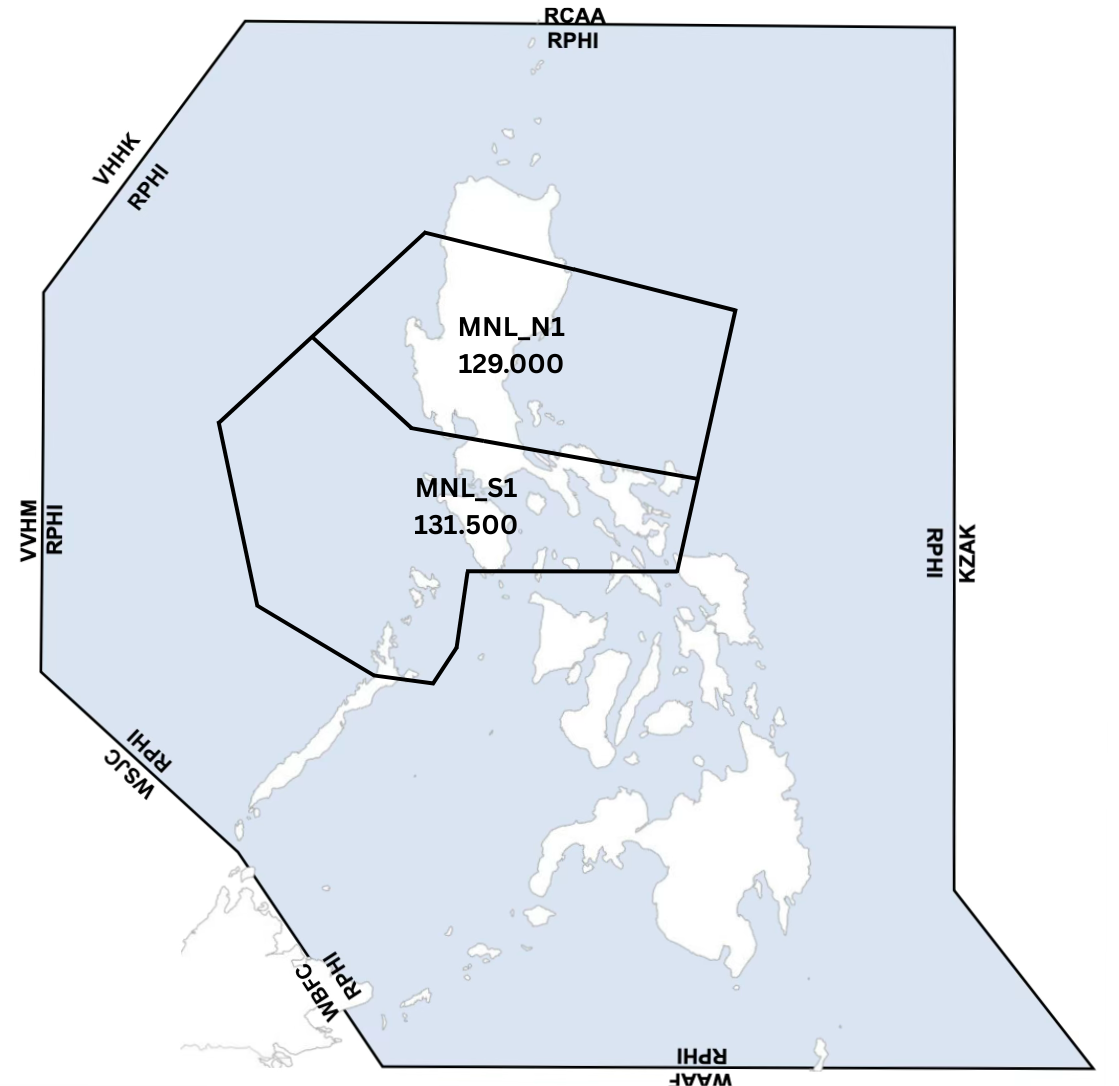
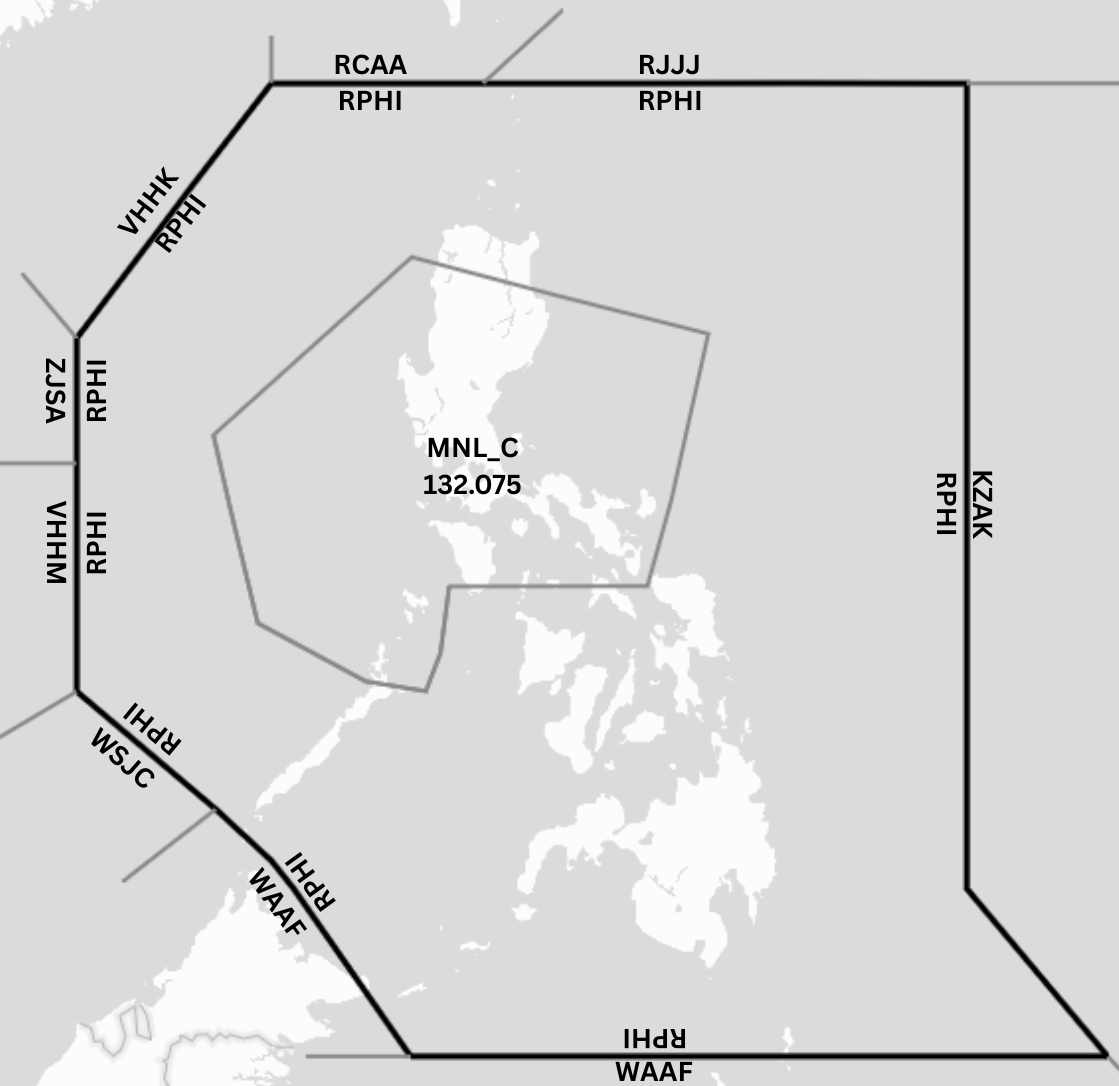
Sector Update

diff --git a/tools/build_mnl_sectors.py b/tools/build_mnl_sectors.py
@@ -1,0 +1,103 @@
+#!/usr/bin/env python3
+"""
+Build the Manila ACC sector polygons for the briefings map
+(docs/briefings/index.md, `var sectors = [...]`) from the boundary lines in
+tools/mnl_sector_lines.geojson (FIR border + sector boundary lines).
+
+The lines are noded and polygonized into atomic cells; each published sector
+is the union of its atomic cells.  Prints the JS lines to paste / writes them
+into index.md between the `var sectors = [` ... `];` markers.
+
+Run: venv/bin/python tools/build_mnl_sectors.py
+"""
+import json, os, re
+from shapely.geometry import shape, Point, LineString, mapping
+from shapely.ops import unary_union, polygonize, snap, split
+
+HERE = os.path.dirname(os.path.dirname(os.path.abspath(__file__)))
+LINES = os.path.join(HERE, "tools", "mnl_sector_lines.geojson")
+INDEX = os.path.join(HERE, "docs", "briefings", "index.md")
+
+# representative (lon, lat) inside each atomic cell
+SEEDS = {
+    "NW": (118.0, 20.0), "NE": (127.0, 18.0),
+    "CN": (120.0, 16.5), "CE": (123.5, 15.5),
+    "CW": (118.5, 14.0), "CS": (122.5, 13.2),
+    "W": (115.0, 14.0), "SW": (117.0, 10.3),
+    "S": (121.0, 8.0), "SE": (127.0, 10.0),
+    "CIRCLE": (121.02, 14.5),
+}
+# published sectors -> atomic cells (circle halves are added to CN / CS)
+SECTORS = [
+    ("MNL_C",   ["CN", "CE", "CW", "CS"]),
+    ("MNL_CNC", ["CN", "CE"]),
+    ("MNL_CNS", ["CW", "CS"]),
+    ("MNL_BBN", ["NW", "NE", "CN", "CE", "W"]),
+    ("MNL_BBS", ["CW", "CS", "SW", "S", "SE"]),
+    ("MNL_BB2", ["CS", "S", "SE"]),
+    ("MNL_NW", ["NW"]), ("MNL_NE", ["NE"]),
+    ("MNL_CN", ["CN"]), ("MNL_CE", ["CE"]),
+    ("MNL_CW", ["CW"]), ("MNL_CS", ["CS"]),
+    ("MNL_W", ["W"]), ("MNL_SW", ["SW"]),
+    ("MNL_S", ["S"]), ("MNL_SE", ["SE"]),
+]
+
+
+def main():
+    feats = json.load(open(LINES))["features"]
+    fir = [f for f in feats if f["properties"]["name"] == "FIR Border"][0]
+    fir_line = shape(fir["geometry"])
+    lines = []
+    for f in feats:
+        g = shape(f["geometry"])
+        if f["properties"]["name"] != "FIR Border":
+            g = snap(g, fir_line, 0.01)          # lines end on the FIR border
+        lines.append(g)
+    lines = [snap(g, unary_union(lines), 0.005) for g in lines]
+    cells = list(polygonize(unary_union(lines)))
+    print("cells:", len(cells))
+
+    found = {}
+    for name, (x, y) in SEEDS.items():
+        hit = [c for c in cells if c.contains(Point(x, y))]
+        assert len(hit) == 1, (name, len(hit))
+        found[name] = hit[0]
+    assert len({id(c) for c in found.values()}) == len(SEEDS), "seeds share a cell"
+    assert len(cells) == len(SEEDS), "unexpected extra cells: %d" % (len(cells) - len(SEEDS))
+
+    # Manila circle: north half -> CN, south half -> CS (split on the BB line)
+    circ = found["CIRCLE"]
+    minx, miny, maxx, maxy = circ.bounds
+    cut = LineString([(120.69444444, 14.61027778), (121.36277778, 14.46777778)])
+    ext = LineString([(minx - 1, 14.61027778 + (14.61027778 - 14.46777778) / (121.36277778 - 120.69444444) * (minx - 1 - 120.69444444)),
+                      (maxx + 1, 14.61027778 + (14.61027778 - 14.46777778) / (121.36277778 - 120.69444444) * (maxx + 1 - 120.69444444))])
+    parts = list(split(circ, ext).geoms)
+    assert len(parts) == 2
+    north = max(parts, key=lambda p: p.centroid.y)
+    south = min(parts, key=lambda p: p.centroid.y)
+    found["CN"] = unary_union([found["CN"], north])
+    found["CS"] = unary_union([found["CS"], south])
+
+    out = []
+    for sid, members in SECTORS:
+        u = unary_union([found[m] for m in members]).buffer(0)
+        g = mapping(u)
+        if g["type"] == "Polygon":
+            g = {"type": "MultiPolygon", "coordinates": [g["coordinates"]]}
+        # round coords
+        def rnd(o):
+            return [rnd(i) for i in o] if isinstance(o, (list, tuple)) and o and isinstance(o[0], (list, tuple)) else [round(o[0], 6), round(o[1], 6)]
+        g["coordinates"] = rnd(g["coordinates"])
+        out.append({"type": "Feature", "properties": {"id": sid}, "geometry": g})
+        print(sid, u.geom_type, round(u.area, 2), "holes:", sum(len(p.interiors) for p in (u.geoms if u.geom_type == "MultiPolygon" else [u])))
+
+    js = "  var sectors = [\n" + ",\n".join("    " + json.dumps(f, separators=(",", ":")) for f in out) + "\n  ];"
+    src = open(INDEX, encoding="utf-8").read()
+    new, n = re.subn(r"  var sectors = \[\n.*?\n  \];", lambda m: js, src, count=1, flags=re.S)
+    assert n == 1
+    open(INDEX, "w", encoding="utf-8").write(new)
+    print("updated", INDEX)
+
+
+if __name__ == "__main__":
+    main()

diff --git a/docs/briefings/index.md b/docs/briefings/index.md
@@ -419,41 +419,40 @@ Here you will find aerodrome briefings for the airports within the Philippines. 
   var SECTOR_INFO = {
     "MNL_C":     { name: "Manila Inner Combined",   freqs: [{ role: "Primary", mhz: "132.075" }] },
     "MNL_CTR":   { name: "Manila",                  freqs: [{ role: "Primary", mhz: "119.300" }] },
-    "MNL_N_CTR": { name: "Manila North Center",     freqs: [{ role: "Primary", mhz: "126.575" }] },
-    "MNL_S_CTR": { name: "Manila South Center",     freqs: [{ role: "Primary", mhz: "133.500" }] },
-    "MNL_2_CTR": { name: "Manila Split South 2",    freqs: [{ role: "Primary", mhz: "124.950" }] },
-    "MNL_N1":    { name: "Manila Combined North",   freqs: [{ role: "Primary", mhz: "129.000" }] },
-    "MNL_S1":    { name: "Manila Combined South",   freqs: [{ role: "Primary", mhz: "131.500" }] },
-    "MNL_N":     { name: "Manila North",            freqs: [{ role: "Primary", mhz: "126.575" }] },
-    "MNL_S":     { name: "Manila South",            freqs: [{ role: "Primary", mhz: "133.500" }] },
-    "MNL_2":     { name: "Manila Split South",      freqs: [{ role: "Primary", mhz: "124.950" }] },
+    "MNL_BBN":   { name: "Manila North Combined",   freqs: [{ role: "Primary", mhz: "126.575" }] },
+    "MNL_BBS":   { name: "Manila South Combined",   freqs: [{ role: "Primary", mhz: "133.500" }] },
+    "MNL_BB2":   { name: "Manila Split South 2",    freqs: [{ role: "Primary", mhz: "124.900" }] },
+    "MNL_CNC":   { name: "Manila Central North Combined", freqs: [{ role: "Primary", mhz: "129.000" }] },
+    "MNL_CNS":   { name: "Manila Central South Combined", freqs: [{ role: "Primary", mhz: "131.500" }] },
     "MNL_NW":    { name: "Manila North West",       freqs: [{ role: "Primary", mhz: "128.700" }] },
     "MNL_NE":    { name: "Manila North East",       freqs: [{ role: "Primary", mhz: "132.500" }] },
     "MNL_CN":    { name: "Manila Central North",    freqs: [{ role: "Primary", mhz: "120.500" }] },
     "MNL_CE":    { name: "Manila Central East",     freqs: [{ role: "Primary", mhz: "128.750" }] },
     "MNL_CS":    { name: "Manila Central South",    freqs: [{ role: "Primary", mhz: "125.700" }] },
     "MNL_CW":    { name: "Manila Central West",     freqs: [{ role: "Primary", mhz: "132.700" }] },
-    "MNL_W":     { name: "Manila West",             freqs: [{ role: "Primary", mhz: "118.900" }] },
-    "MNL_SW":    { name: "Manila South West",       freqs: [{ role: "Primary", mhz: "124.900" }] },
-    "MNL_SE":    { name: "Manila South East",       freqs: [{ role: "Primary", mhz: "125.750" }] }
+    "MNL_W":     { name: "Manila West",             freqs: [{ role: "Primary", mhz: "133.750" }] },
+    "MNL_SW":    { name: "Manila South West",       freqs: [{ role: "Primary", mhz: "118.900" }] },
+    "MNL_S":     { name: "Manila South",            freqs: [{ role: "Primary", mhz: "124.900" }] },
+    "MNL_SE":    { name: "Manila South East",       freqs: [{ role: "Primary", mhz: "125.700" }] }
   };
 
   var sectors = [
-    {"type":"Feature","properties":{"id":"MNL_N1"},"geometry":{"type":"MultiPolygon","coordinates":[[[[121.021722,14.507972],[120.397448,14.636917],[119.74649,14.84913],[117.994167,16.335556],[119.70646,17.76008],[120.0,18.0],[120.887532,17.806853],[122.6,17.411111],[125.353333,16.743611],[124.692222,13.864722],[122.037395,14.3389],[121.021722,14.507972]]]]}},
-    {"type":"Feature","properties":{"id":"MNL_S1"},"geometry":{"type":"MultiPolygon","coordinates":[[[[121.021722,14.507972],[122.037395,14.3389],[124.692222,13.864722],[124.372217,12.3719],[124.256944,12.371944],[123.630556,12.369167],[122.748611,12.364444],[122.409853,12.368143],[121.697456,12.364799],[121.001387,12.35862],[120.7,12.35],[120.5425,11.180278],[120.281389,10.512222],[119.203611,10.679444],[117.256389,11.708333],[116.762778,13.725556],[116.461667,15.0],[117.994167,16.335556],[119.74649,14.84913],[120.397448,14.636917],[121.021722,14.507972]]]]}},
-    {"type":"Feature","properties":{"id":"MNL_2"},"geometry":{"type":"MultiPolygon","coordinates":[[[[121.021722,14.507972],[122.037395,14.3389],[124.692222,13.864722],[130.0,13.0],[130.0,7.0],[132.533333,4.0],[124.645833,4.0],[121.25,4.0],[120.0,4.0],[117.9,7.0],[120.281389,10.512222],[120.5425,11.180278],[120.7,12.35],[120.8724,13.51758],[121.021722,14.507972]]]]}},
-    {"type":"Feature","properties":{"id":"MNL_CE"},"geometry":{"type":"MultiPolygon","coordinates":[[[[122.6,17.411111],[125.353333,16.743611],[124.692222,13.864722],[122.037395,14.3389],[121.021722,14.507972],[121.49422,15.40169],[122.6,17.411111]]]]}},
-    {"type":"Feature","properties":{"id":"MNL_CN"},"geometry":{"type":"MultiPolygon","coordinates":[[[[120.0,18.0],[120.887532,17.806853],[122.6,17.411111],[121.49422,15.40169],[121.021722,14.507972],[120.397448,14.636917],[119.74649,14.84913],[117.994167,16.335556],[119.70646,17.76008],[120.0,18.0]]]]}},
-    {"type":"Feature","properties":{"id":"MNL_CS"},"geometry":{"type":"MultiPolygon","coordinates":[[[[121.021722,14.507972],[122.037395,14.3389],[124.692222,13.864722],[124.372217,12.3719],[124.256944,12.371944],[123.630556,12.369167],[122.748611,12.364444],[122.409853,12.368143],[121.697456,12.364799],[121.001387,12.35862],[120.7,12.35],[120.8724,13.51758],[121.021722,14.507972]]]]}},
-    {"type":"Feature","properties":{"id":"MNL_CW"},"geometry":{"type":"MultiPolygon","coordinates":[[[[121.021722,14.507972],[120.8724,13.51758],[120.7,12.35],[120.5425,11.180278],[120.281389,10.512222],[119.203611,10.679444],[117.256389,11.708333],[116.762778,13.725556],[116.461667,15.0],[117.994167,16.335556],[119.74649,14.84913],[120.397448,14.636917],[121.021722,14.507972]]]]}},
-    {"type":"Feature","properties":{"id":"MNL_N"},"geometry":{"type":"MultiPolygon","coordinates":[[[[117.5,21.0],[118.189722,21.0],[121.3,21.0],[121.5,21.0],[124.0,21.0],[126.852778,21.000444],[130.0,21.0],[130.0,13.0],[124.692222,13.864722],[122.037395,14.3389],[121.021722,14.507972],[120.397448,14.636917],[119.74649,14.84913],[117.994167,16.335556],[116.461667,15.0],[114.0,12.5],[113.996608,15.734407],[114.0,16.666667],[115.537683,18.598851],[116.123518,19.32391],[117.5,21.0]]]]}},
-    {"type":"Feature","properties":{"id":"MNL_NE"},"geometry":{"type":"MultiPolygon","coordinates":[[[[124.692222,13.864722],[125.353333,16.743611],[122.6,17.411111],[124.0,21.0],[126.852778,21.000444],[130.0,21.0],[130.0,13.0],[124.692222,13.864722]]]]}},
-    {"type":"Feature","properties":{"id":"MNL_NW"},"geometry":{"type":"MultiPolygon","coordinates":[[[[114.0,12.5],[113.996608,15.734407],[114.0,16.666667],[115.537683,18.598851],[116.123518,19.32391],[117.5,21.0],[118.189722,21.0],[121.3,21.0],[121.5,21.0],[124.0,21.0],[122.6,17.411111],[120.887532,17.806853],[120.0,18.0],[119.70646,17.76008],[117.994167,16.335556],[116.461667,15.0],[114.0,12.5]]]]}},
-    {"type":"Feature","properties":{"id":"MNL_SE"},"geometry":{"type":"MultiPolygon","coordinates":[[[[122.409853,12.368143],[122.748611,12.364444],[123.630556,12.369167],[124.256944,12.371944],[124.372217,12.3719],[124.692222,13.864722],[130.0,13.0],[130.0,7.0],[132.533333,4.0],[124.645833,4.0],[124.492099,5.505],[124.072222,7.963333],[124.0,9.028611],[123.962389,9.159639],[123.988296,10.313568],[123.471191,10.965559],[123.144311,11.417421],[122.409853,12.368143]]]]}},
-    {"type":"Feature","properties":{"id":"MNL_W"},"geometry":{"type":"MultiPolygon","coordinates":[[[[116.461667,15.0],[116.762778,13.725556],[117.256389,11.708333],[119.203611,10.679444],[120.281389,10.512222],[117.9,7.0],[117.5,7.5],[116.5,8.416667],[116.194461,8.670099],[114.0,10.5],[114.0,12.366667],[114.0,12.5],[116.461667,15.0]]]]}},
-    {"type":"Feature","properties":{"id":"MNL_S"},"geometry":{"type":"MultiPolygon","coordinates":[[[[124.692222,13.864722],[122.037395,14.3389],[121.021722,14.507972],[120.397448,14.636917],[119.74649,14.84913],[117.994167,16.335556],[116.461667,15.0],[114.0,12.5],[114.0,12.366667],[114.0,10.5],[116.194461,8.670099],[116.5,8.416667],[117.5,7.5],[117.9,7.0],[120.0,4.0],[121.25,4.0],[124.645833,4.0],[132.533333,4.0],[130.0,7.0],[130.0,13.0],[124.692222,13.864722]]]]}},
-    {"type":"Feature","properties":{"id":"MNL_SW"},"geometry":{"type":"MultiPolygon","coordinates":[[[[120.7,12.35],[121.001387,12.35862],[121.697456,12.364799],[122.409853,12.368143],[123.144311,11.417421],[123.471191,10.965559],[123.988296,10.313568],[123.962389,9.159639],[124.0,9.036111],[124.071667,7.972222],[124.4921,5.505],[124.645833,4.0],[121.25,4.0],[120.0,4.0],[117.9,7.0],[120.281389,10.512222],[120.5425,11.180278],[120.7,12.35]]]]}}  ,
-    {"type":"Feature","properties":{"id":"MNL_C"},"geometry":{"type":"MultiPolygon","coordinates":[[[[120.0,18.0],[122.6,17.411111],[125.353333,16.743611],[124.692222,13.864722],[124.372217,12.3719],[124.256944,12.371944],[123.630556,12.369167],[122.748611,12.364444],[122.409853,12.368143],[121.697456,12.364799],[121.001387,12.35862],[120.7,12.35],[120.5425,11.180278],[120.281389,10.512222],[119.203611,10.679444],[117.256389,11.708333],[116.762778,13.725556],[116.461667,15.0],[117.994167,16.335556],[120.0,18.0]]]]}}
+    {"type":"Feature","properties":{"id":"MNL_C"},"geometry":{"type":"MultiPolygon","coordinates":[[[[124.257778,12.355833],[122.7425,12.365278],[120.696944,12.350556],[120.538889,11.179444],[120.275556,10.507222],[120.275556,10.507222],[119.196667,10.680556],[117.254722,11.704722],[116.757778,13.725278],[116.458056,14.995],[118.005,16.325556],[120.023889,18.059167],[122.593333,17.410556],[125.353056,16.743889],[124.688611,13.862778],[124.257778,12.355833]]]]}},
+    {"type":"Feature","properties":{"id":"MNL_CNC"},"geometry":{"type":"MultiPolygon","coordinates":[[[[125.353056,16.743889],[124.688611,13.862778],[121.362778,14.467778],[121.365543,14.496834],[121.36526,14.526026],[121.362337,14.555082],[121.356796,14.583779],[121.348679,14.611896],[121.338046,14.639217],[121.324978,14.665531],[121.309577,14.690637],[121.291958,14.71434],[121.274488,14.733953],[120.694444,14.610278],[119.845833,14.735],[118.005,16.325556],[120.023889,18.059167],[122.593333,17.410556],[125.353056,16.743889]]]]}},
+    {"type":"Feature","properties":{"id":"MNL_CNS"},"geometry":{"type":"MultiPolygon","coordinates":[[[[118.005,16.325556],[119.845833,14.735],[120.694444,14.610278],[121.274488,14.733953],[121.291958,14.71434],[121.309577,14.690637],[121.324978,14.665531],[121.338046,14.639217],[121.348679,14.611896],[121.356796,14.583779],[121.362337,14.555082],[121.36526,14.526026],[121.365543,14.496834],[121.362778,14.467778],[124.688611,13.862778],[124.257778,12.355833],[122.7425,12.365278],[120.696944,12.350556],[120.538889,11.179444],[120.275556,10.507222],[120.275556,10.507222],[119.196667,10.680556],[117.254722,11.704722],[116.757778,13.725278],[116.458056,14.995],[118.005,16.325556]]]]}},
+    {"type":"Feature","properties":{"id":"MNL_BBN"},"geometry":{"type":"MultiPolygon","coordinates":[[[[116.757778,13.725278],[114.0,10.5],[114.0,12.5],[114.0,14.5],[114.0,16.666667],[115.5374,18.599643],[115.845,18.985],[116.019802,19.206508],[117.5,21.0],[118.189722,21.0],[121.3,21.0],[121.5,21.0],[124.0,21.0],[124.581389,21.0],[126.852778,21.004444],[130.0,21.0],[130.0,13.0],[130.0,12.858611],[124.688611,13.862778],[121.362778,14.467778],[121.365543,14.496834],[121.36526,14.526026],[121.362337,14.555082],[121.356796,14.583779],[121.348679,14.611896],[121.338046,14.639217],[121.324978,14.665531],[121.309577,14.690637],[121.291958,14.71434],[121.274488,14.733953],[120.694444,14.610278],[119.845833,14.735],[118.005,16.325556],[116.458056,14.995],[116.757778,13.725278]]]]}},
+    {"type":"Feature","properties":{"id":"MNL_BBS"},"geometry":{"type":"MultiPolygon","coordinates":[[[[130.0,12.858611],[130.0,7.0],[132.533333,4.0],[124.652778,4.0],[121.25,4.0],[120.0,4.0],[117.990076,6.871657],[117.9,7.0],[117.5,7.5],[116.5,8.416667],[114.0,10.5],[116.757778,13.725278],[116.458056,14.995],[118.005,16.325556],[119.845833,14.735],[120.694444,14.610278],[121.274488,14.733953],[121.291958,14.71434],[121.309577,14.690637],[121.324978,14.665531],[121.338046,14.639217],[121.348679,14.611896],[121.356796,14.583779],[121.362337,14.555082],[121.36526,14.526026],[121.365543,14.496834],[121.362778,14.467778],[124.688611,13.862778],[130.0,12.858611]]]]}},
+    {"type":"Feature","properties":{"id":"MNL_BB2"},"geometry":{"type":"MultiPolygon","coordinates":[[[[121.25,4.0],[120.0,4.0],[117.990076,6.871657],[120.275556,10.507222],[120.275556,10.507222],[120.538889,11.179444],[120.696944,12.350556],[120.836389,13.519722],[120.955833,14.179444],[120.926418,14.187983],[120.897433,14.19745],[120.869429,14.209374],[120.842626,14.223663],[120.817236,14.240203],[120.79346,14.258863],[120.771487,14.279496],[120.75149,14.30194],[120.733628,14.326016],[120.718043,14.351536],[120.704858,14.378296],[120.694179,14.406085],[120.686092,14.434684],[120.680661,14.463865],[120.677931,14.493399],[120.677923,14.523051],[120.68064,14.552586],[120.686061,14.58177],[120.694444,14.610278],[121.274488,14.733953],[121.291958,14.71434],[121.309577,14.690637],[121.324978,14.665531],[121.338046,14.639217],[121.348679,14.611896],[121.356796,14.583779],[121.362337,14.555082],[121.36526,14.526026],[121.365543,14.496834],[121.362778,14.467778],[124.688611,13.862778],[130.0,12.858611],[130.0,7.0],[132.533333,4.0],[124.652778,4.0],[121.25,4.0]]]]}},
+    {"type":"Feature","properties":{"id":"MNL_NW"},"geometry":{"type":"MultiPolygon","coordinates":[[[[124.581389,21.0],[122.593333,17.410556],[120.023889,18.059167],[118.005,16.325556],[116.458056,14.995],[115.5374,18.599643],[115.845,18.985],[116.019802,19.206508],[117.5,21.0],[118.189722,21.0],[121.3,21.0],[121.5,21.0],[124.0,21.0],[124.581389,21.0]]]]}},
+    {"type":"Feature","properties":{"id":"MNL_NE"},"geometry":{"type":"MultiPolygon","coordinates":[[[[122.593333,17.410556],[124.581389,21.0],[126.852778,21.004444],[130.0,21.0],[130.0,13.0],[130.0,12.858611],[124.688611,13.862778],[125.353056,16.743889],[122.593333,17.410556]]]]}},
+    {"type":"Feature","properties":{"id":"MNL_CN"},"geometry":{"type":"MultiPolygon","coordinates":[[[[121.22723,14.775273],[121.250626,14.756822],[121.272257,14.736458],[121.274488,14.733953],[120.694444,14.610278],[119.845833,14.735],[118.005,16.325556],[120.023889,18.059167],[122.593333,17.410556],[121.202778,14.7925],[121.22723,14.775273]]]]}},
+    {"type":"Feature","properties":{"id":"MNL_CE"},"geometry":{"type":"MultiPolygon","coordinates":[[[[122.593333,17.410556],[125.353056,16.743889],[124.688611,13.862778],[121.362778,14.467778],[121.365543,14.496834],[121.36526,14.526026],[121.362337,14.555082],[121.356796,14.583779],[121.348679,14.611896],[121.338046,14.639217],[121.324978,14.665531],[121.309577,14.690637],[121.291958,14.71434],[121.272257,14.736458],[121.250626,14.756822],[121.22723,14.775273],[121.202778,14.7925],[122.593333,17.410556]]]]}},
+    {"type":"Feature","properties":{"id":"MNL_CW"},"geometry":{"type":"MultiPolygon","coordinates":[[[[116.458056,14.995],[118.005,16.325556],[119.845833,14.735],[120.694444,14.610278],[120.686061,14.58177],[120.68064,14.552586],[120.677923,14.523051],[120.677931,14.493399],[120.680661,14.463865],[120.686092,14.434684],[120.694179,14.406085],[120.704858,14.378296],[120.718043,14.351536],[120.733628,14.326016],[120.75149,14.30194],[120.771487,14.279496],[120.79346,14.258863],[120.817236,14.240203],[120.842626,14.223663],[120.869429,14.209374],[120.897433,14.19745],[120.926418,14.187983],[120.955833,14.179444],[120.836389,13.519722],[120.696944,12.350556],[120.538889,11.179444],[120.275556,10.507222],[120.275556,10.507222],[119.196667,10.680556],[117.254722,11.704722],[116.757778,13.725278],[116.458056,14.995]]]]}},
+    {"type":"Feature","properties":{"id":"MNL_CS"},"geometry":{"type":"MultiPolygon","coordinates":[[[[120.836389,13.519722],[120.955833,14.179444],[120.926418,14.187983],[120.897433,14.19745],[120.869429,14.209374],[120.842626,14.223663],[120.817236,14.240203],[120.79346,14.258863],[120.771487,14.279496],[120.75149,14.30194],[120.733628,14.326016],[120.718043,14.351536],[120.704858,14.378296],[120.694179,14.406085],[120.686092,14.434684],[120.680661,14.463865],[120.677931,14.493399],[120.677923,14.523051],[120.68064,14.552586],[120.686061,14.58177],[120.694444,14.610278],[121.274488,14.733953],[121.291958,14.71434],[121.309577,14.690637],[121.324978,14.665531],[121.338046,14.639217],[121.348679,14.611896],[121.356796,14.583779],[121.362337,14.555082],[121.36526,14.526026],[121.365543,14.496834],[121.362778,14.467778],[124.688611,13.862778],[124.257778,12.355833],[122.7425,12.365278],[120.696944,12.350556],[120.836389,13.519722]]]]}},
+    {"type":"Feature","properties":{"id":"MNL_W"},"geometry":{"type":"MultiPolygon","coordinates":[[[[115.5374,18.599643],[116.458056,14.995],[116.757778,13.725278],[114.0,10.5],[114.0,12.5],[114.0,14.5],[114.0,16.666667],[115.5374,18.599643]]]]}},
+    {"type":"Feature","properties":{"id":"MNL_SW"},"geometry":{"type":"MultiPolygon","coordinates":[[[[116.757778,13.725278],[117.254722,11.704722],[119.196667,10.680556],[120.275556,10.507222],[117.990076,6.871657],[117.9,7.0],[117.5,7.5],[116.5,8.416667],[114.0,10.5],[116.757778,13.725278]]]]}},
+    {"type":"Feature","properties":{"id":"MNL_S"},"geometry":{"type":"MultiPolygon","coordinates":[[[[120.696944,12.350556],[122.7425,12.365278],[123.648889,11.074167],[123.988333,10.313611],[123.995556,9.476389],[123.640833,9.293333],[123.994722,9.028333],[124.069722,7.963333],[124.283056,7.171111],[124.652778,4.0],[121.25,4.0],[120.0,4.0],[117.990076,6.871657],[120.275556,10.507222],[120.275556,10.507222],[120.538889,11.179444],[120.696944,12.350556]]]]}},
+    {"type":"Feature","properties":{"id":"MNL_SE"},"geometry":{"type":"MultiPolygon","coordinates":[[[[124.688611,13.862778],[130.0,12.858611],[130.0,7.0],[132.533333,4.0],[124.652778,4.0],[124.283056,7.171111],[124.069722,7.963333],[123.994722,9.028333],[123.640833,9.293333],[123.995556,9.476389],[123.988333,10.313611],[123.648889,11.074167],[122.7425,12.365278],[124.257778,12.355833],[124.688611,13.862778]]]]}}
   ];
 
   var tmas = [
